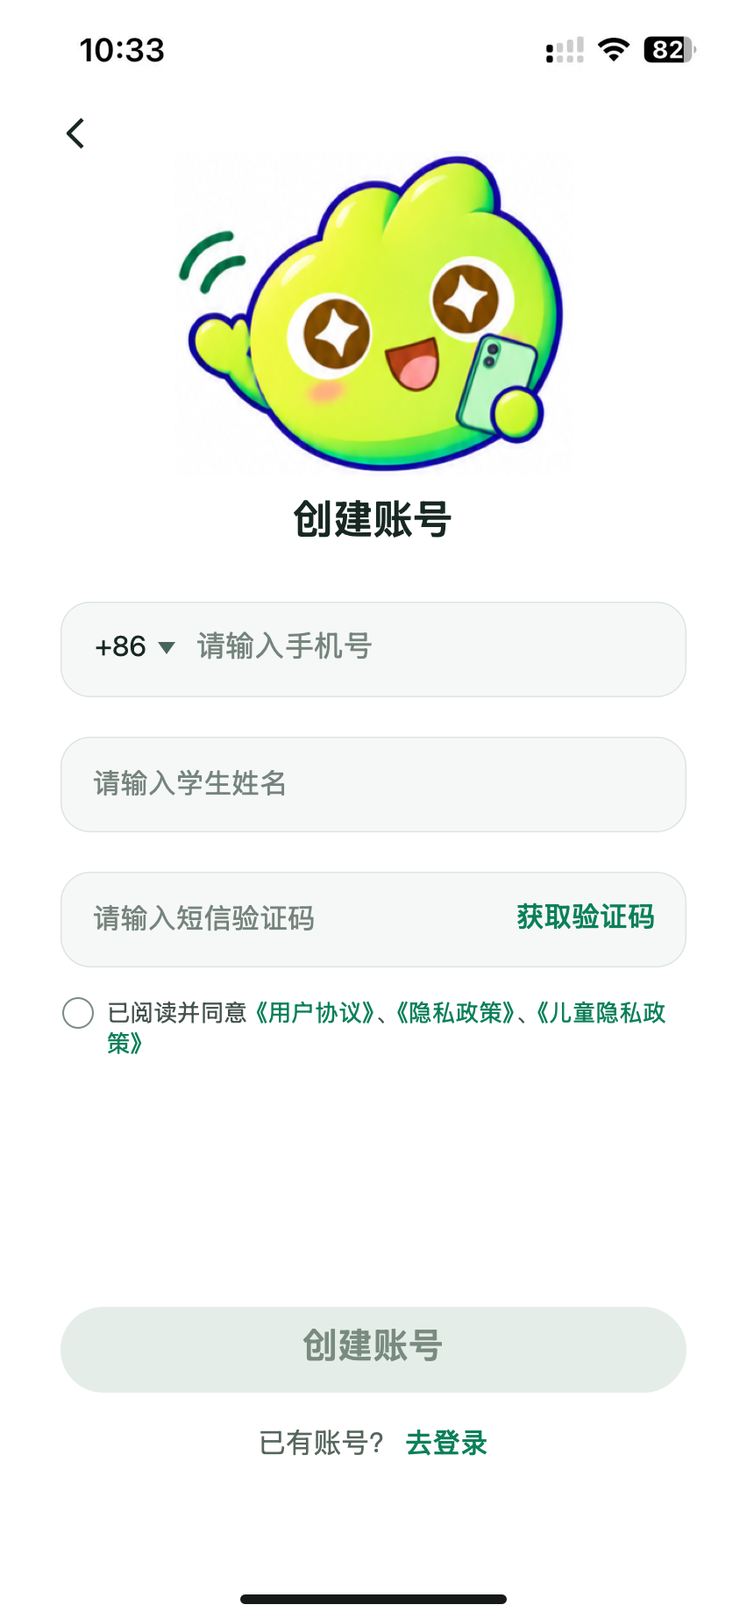
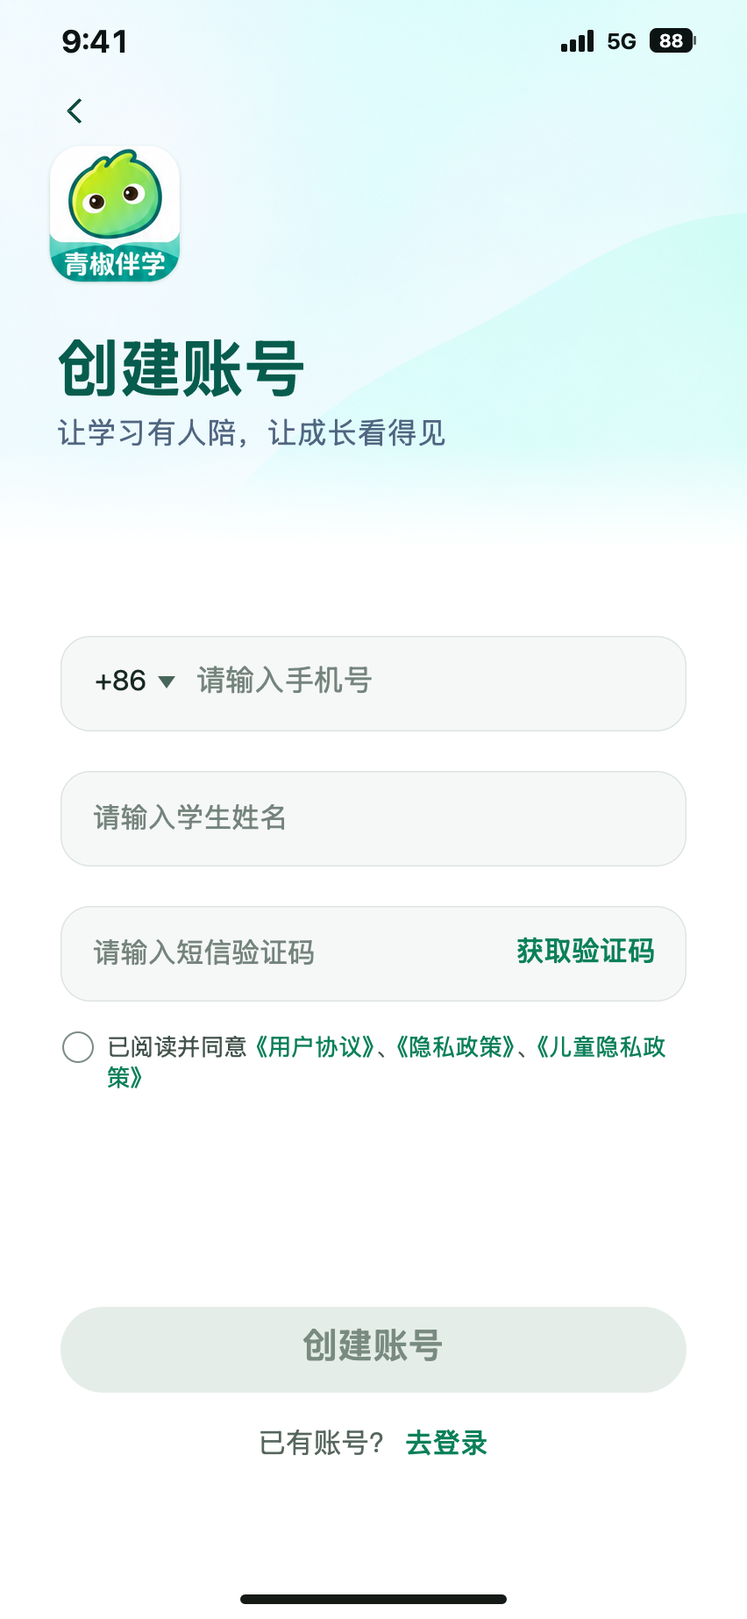
Publish approved account screens and centered dialogs

diff --git a/index.html b/index.html
@@ -15,7 +15,7 @@
 <main class="shell" id="shell" hidden><aside class="rail"><input id="search" aria-label="搜索页面" placeholder="搜索页面或状态"><nav id="nav" aria-label="设计页面目录"></nav></aside><section class="workspace"><div class="work-head"><div><h1 id="page-title"></h1><p id="page-meta"></p></div><div class="step-controls"><button id="read-interaction" class="detail-jump">交互说明</button><button id="previous" aria-label="上一张">‹</button><button id="next" aria-label="下一张">›</button></div></div><div class="stage" id="stage"><div class="screen" id="screen"><img id="screen-image" alt=""><div id="hotspots"></div><div id="learning-fields"></div></div></div></section><aside class="detail" id="interaction-detail"><h2 id="detail-title"></h2><p id="feature"></p><h3>功能、状态与权限</h3><ul id="rules"></ul><h3>查看交互去向</h3><div id="actions" class="action-links"></div><div class="file-links"><a id="original" target="_blank" rel="noopener">查看原图 ↗</a><a id="download" download>下载 PNG</a></div><p class="hint">手机稿按原尺寸提供下载。短信、上传、播放、反馈等流程使用演示数据。</p><p class="status"></p></aside></main>
 <section class="overview" id="overview"><h1>UI 设计图</h1><div id="overview-groups"></div></section>
 <script id="review-data" type="application/json">{"screens":[{"id":"00","group":"首页","name":"首页 · 已排课","file":"00-首页-已排课.png"},{"id":"00-empty","group":"首页","name":"首页 · 未排课","parent":"00","file":"00-首页-未排课.png"},{"id":"01","group":"账号","name":"手机号登录","parent":null,"spec":"A clean welcoming phone-code login screen, no tabs or back arrow. Compact green pepper smiling brand logo above 青椒伴学. Warm heading 欢迎回来 and subtitle 让学习有人陪，让成长看得见. White form card contains labels 购课登记手机号 and 短信验证码, phone input placeholder 请输入购课登记手机号, code input 请输入验证码 and inline 获取验证码. Wide turquoise 登录并开始学习 button. Below an UNCHECKED consent checkbox with 我已阅读并同意 plus separate 用户协议 and 隐私政策 text links. Small supporting text 仅面向已购伴学服务、由老师建档的学生. No registration, no password login, no social logins, no fake SMS duration/countdown, no demonstration 123456 in product UI. Friendly illustration no more than 20% of screen.","file":"01-手机号登录.png"},{"id":"02","group":"账号","name":"选择学生","parent":null,"spec":"Subpage title 选择学生. Heading 今天，陪谁一起学习？ subtitle 同一账号下的学生，学习记录各自独立. Two large tappable white student rows: illustrated friendly pepper avatar, 林小禾 / 五年级 · 数学, right chevron; second slightly different friendly pepper expression, 林小满 / 七年级 · 数学, right chevron. Subtle current badge 当前学生 on 林小禾 for this switch-student variant, not an editable control. Bottom explanation 学生档案由老师建立，如有疑问请联系老师. No 新增学生, no editing grade, no destructive controls. No bottom tabs.","file":"02-选择学生.png"},{"id":"02A","group":"账号","name":"完善学习信息","parent":"02","file":"02A-完善学习信息-v2.png","spec":"沿用02的852×1846画布比例；按当前学生确认年级及教材版本。","artwork":"assets/learning-reference.png"},{"id":"03","group":"账号","name":"未关联学生","parent":null,"spec":"Subpage title 暂未关联学生. Spacious centered empty-state illustration: small friendly pepper holding an unlinked student card, modern teal/lime illustrative style, not sad or alarming. Title 当前手机号尚未关联学生. Body 请使用购课登记手机号登录，或通过已有服务渠道联系老师. A single primary 更换手机号 button. Below subtle helper 学生档案由老师建立. No 自动创建, no 注册, no invented teacher contact QR or unknown phone.","file":"03-未关联学生.png"},{"id":"04","group":"学习","name":"周历与待发布周报","parent":null,"spec":"Main STUDY tab screen. Page heading 学习, subtitle 看得见安排，也看得见每一次努力, small pepper mascot top right matching brand. First white calendar card: title 这周的学习安排, small 回到本周 link. Week header left/right chevrons, 11月2日—11月8日. Exactly one row of seven days 周一 2, 周二 3, 周三 4, 周四 5, 周五 6, 周六 7, 周日 8. 4 selected turquoise rounded capsule, small course dots under 2,4,6, no dots other dates. Supporting legend 有已发布安排 · 点击日期查看. Below section 本周学习周报, generous white empty-state card with small illustrated report/book icon, 本周周报尚未发布, 老师发布后，你可以在这里查看, secondary outlined 查看上周周报 button. No monthly calendar, no separate tabs for 周计划/学习周报, no create plan control. Bottom navigation visible with 学习 active.","file":"04-周历与待发布周报.png"},{"id":"05","group":"学习","name":"上周已发布周报","parent":"04","spec":"Keep precisely the same 学习 main screen layout as second reference, with 学习 tab selected. Calendar week changes to 10月26日—11月1日 and seven day numbers 26,27,28,29,30,31,1, course dots under26,28,30; 30 selected. Section 上周学习周报. Replace unpublished empty card with published report card, small report illustration on right, title 一周，一点进步, date10.26—11.01, metadata 3次安排 · 2份作业已提交, small 已发布 · 第1版 pill, turquoise 查看周报 button. Keep 回到本周 link and week chevrons.","file":"05-上周已发布周报.png"},{"id":"06","group":"学习","name":"日期课程弹层","parent":"04","spec":"Date-schedule BOTTOM SHEET overlay on the same 学习 calendar screen as second reference. Dim background softly but retain recognizable calendar and tab bar; overlay covers lower ~53%. Sheet white, rounded top corners, drag handle and close x. Title 11月4日的学习安排, subtitle 周三 · 已发布. One course white/mint card: 数学, 小数乘法的算理, 今天19:00—19:40. Small beautiful math video thumbnail 0.3 × 4 with play symbol, metadata 视频1个 · 原练习3题. Two clear actions: primary 进入学习, secondary 预览练习. Do not repeat 今天上课 badges, do not force video before practice. Sheet padded above home indicator, no tab bar on top of sheet.","file":"06-日期课程弹层.png"},{"id":"07","group":"学习","name":"当天无课程弹层","parent":"06","spec":"State variant of the date-schedule bottom sheet second reference. Background calendar retains current week but select 周四5. Compact white bottom sheet about 36% height with close button and handle. Heading 11月5日的学习安排. Small outlined mint calendar illustration. Message 当天暂无已发布课程. Supporting text 可以切换日期，查看其他学习安排. Neutral 知道了 button that closes sheet. No course cards, no 创建计划 or guessed future plans, no fake data.","file":"07-当天无课程弹层.png"},{"id":"08","group":"课时","name":"课时详情","parent":null,"spec":"Subpage header 学习内容. Top date 11月4日 周三 · 19:00—19:40, heading 小数乘法的算理. Supporting 按自己的节奏开始，不需要依次完成. FOUR compact separate white action cards stacked with balanced spacing, not a timeline requiring order. Each has colorful icon left, text middle and control right:\n看视频 / 已观看35% / 继续观看.\n做练习 / 原练习 · 3题 · 可下载打印 / 预览练习.\n交作业 / 纸笔完成后，拍照整份上传 / 上传作业.\n老师反馈 / 老师发布后可以查看 / 查看状态 (secondary).\nAt bottom a quiet tip 视频、练习与作业可自由进入. No completed/掌握 claims. No empty 加练 entry before teacher publishes, no tabs. All four action cards must fit without compressed glyphs.","file":"08-课时详情.png"},{"id":"09","group":"课时","name":"未来课时未开放","parent":"08","spec":"Exact layout variant of lesson detail reference. Date11月6日 周五 · 19:00—19:40, same course 小数乘法的算理. Add quiet visible mint notice 11月6日00:00开放视频与作业提交 and small 北京时间. 看视频 card locked with 未到学习日 and gray disabled 待开放; 做练习 card remains active 预览练习 with3题 and PDF info; 交作业 locked 待开放; 老师反馈 secondary 查看状态 not a fake published result. Supporting text 现在可以预览练习. No countdown or unlock time19:00; schedule time is not the lock threshold.","file":"09-未来课时未开放.png"},{"id":"10","group":"视频","name":"视频学习 · 多课程","parent":null,"spec":"390×844布局基准，852×1846设计稿；一排三节课程，播放器内倍速，关键节点真人形象AI老师讲解示意；下方总结卡片留足间距，无播放位置提示行。","file":"10-视频学习-v2.png","artwork":"assets/video-reference.png"},{"id":"11","group":"视频","name":"网络失败","parent":"10","spec":"Same 视频学习 layout as reference. Within 16:9 player replace lesson image with calm very pale mint error surface, small tasteful disconnected-network illustration, heading 网络连接失败, helper 请检查网络后重试 and primary 重试播放 button. Keep below course 小数乘法的算理 and remembered-position helper. Bottom 前往练习 remains accessible. No cartoon alarm, no entire-screen huge warning. Preserve page geometry.","file":"11-网络失败.png"},{"id":"12","group":"视频","name":"无观看权限","parent":"10","spec":"Same 视频学习 page geometry. In player state surface use small mint shield/lock illustration, heading 暂无该视频观看权限, helper 请联系老师了解详情. No retry-play button, no purchase or renew CTA. Course title and 前往练习 remain below. Secondary 联系老师 text control may open existing shared contact sheet. Distinguish this state clearly from network failure.","file":"12-无观看权限.png"},{"id":"13","group":"视频","name":"资源不可用","parent":"10","spec":"Same 视频学习 page geometry. In player state area show small mint file/video unavailable illustration, heading 视频资源暂不可用, helper 请稍后再试，或联系老师了解详情. No claim permission expired, no invented reason, no purchase or renewal. Keep course heading and 前往练习 below.","file":"13-资源不可用.png"},{"id":"14","group":"视频","name":"观看有效期届满","parent":"10","spec":"Same 视频学习 page geometry. Player state shows small calendar-lock illustration, heading 视频观看有效期已届满, helper 请联系老师了解详情. Secondary 联系老师 button. Retain 小数乘法的算理 and 前往练习 below. Do not show guessed validity length or automatic renewal. Do not call this 服务到期: video authorization is independent of service.","file":"14-观看有效期届满.png"},{"id":"15","group":"练习作业","name":"原练习预览","parent":null,"spec":"Subpage 练习预览. Label 原练习 · 纸笔作答, right 共3题, heading 小数乘法的算理. White paper-like content with three clear numbered questions and generous ruled handwriting space:\n1. 计算：0.3 × 4 = ______\n2. 一盒彩笔2.5元，买3盒一共多少钱？\n3. 小禾每天步行1.2千米，5天一共步行多少千米？\nThese are static printable questions, NOT input fields, no answer buttons or correct answers.\nBottom fixed action area with outlined 下载原练习PDF and primary 完成了，上传作业. Small helper 练习PDF不含答案，反馈发布后可查看. Ensure handwriting spaces and questions visible; numbered questions printed on a single paper sheet. No bottom tabs.","file":"15-原练习预览.png"},{"id":"16","group":"练习作业","name":"老师加练预览","parent":"15","spec":"Same printable exercise page layout but nav title 巩固加练. Tag 老师发布 · 一轮加练. Title 小数乘法巩固练习, 共3题. Paper questions: 1.计算：0.4 × 3 = ______; 2.每盒彩笔2.6元，4盒共多少元？; 3.每天步行1.5千米，4天共多少千米？ Handwriting areas, no answers and no online inputs. Bottom secondary 下载加练PDF and primary 完成了，上传加练. Small text 老师发布后即可完成，不另扣课时. No automatic second round, no mastery meter.","file":"16-老师加练预览.png"},{"id":"17","group":"练习作业","name":"多图作业待提交","parent":null,"spec":"Subpage 原练习作业. Course 小数乘法的算理, subtitle11月4日 周三 · 原练习. Gentle helper 请拍清整页，保留题目和答案. White upload area: two realistic photographed elementary math homework paper thumbnails with tidy visible pencil arithmetic and page numbers 第1张, 第2张. These are photographs, not flat icons. Each thumbnail small x delete control at top-right. A third equal-size dashed mint + 添加图片 tile with 拍照或从相册选择 helper. Below note 支持多张图片，不支持PDF上传. Wide bottom primary 确认整份提交 · 2张. Helper 提交后可查看，老师退回后才能修改. Small neutral note 21:00后仍可提交. No demo-image button, no hard-coded file-size limit or max count.","file":"17-多图作业待提交.png"},{"id":"18","group":"练习作业","name":"整份提交确认","parent":"17","spec":"Exact upload page as reference behind a lightly dimmed scrim. White compact BOTTOM SHEET with handle, small check/document illustration. Heading 确认提交这份作业？ Body 共2张图片，请确认题目与答案完整清晰. Small helper 提交后可查看，老师退回后才能修改. Full turquoise 确认提交 and secondary 继续检查. Close x, safe bottom padding. Photo thumbnails behind stay selected. No automatic deletion, no irrevocable exaggerated warning.","file":"18-整份提交确认.png"},{"id":"19","group":"练习作业","name":"上传失败保留图片","parent":"17","spec":"Exact editable upload page geometry as reference, keep BOTH homework photo thumbnails selected with delete controls and add tile. Add in-context gentle coral error row 上传失败，已保留所选图片 and secondary 请检查网络后重试 near submission area. Primary button 重试整份提交 · 2张. No reset to empty, no success badge, no clearing thumbnails. Maintain original course/date and readable helper. A soft red error icon only, not a full red page.","file":"19-上传失败保留图片.png"},{"id":"20","group":"练习作业","name":"提交成功只读","parent":"17","spec":"Same 原练习作业 page, course/date. Replace upload zone with submitted white card. Small mint success illustration, heading 作业已提交, subtitle 等待老师反馈. Show exactly two uploaded homework photo thumbnails labelled 第1张 and 第2张 in read-only mode: NO delete x, NO +tile, NO replace/upload action. Supporting 提交后不可自行覆盖，老师退回后可重新上传. Secondary 查看反馈状态 button. Small success toast 已提交，等待老师反馈 at lower area, not over controls. No invented response deadline.","file":"20-提交成功只读.png"},{"id":"21","group":"练习作业","name":"老师退回补交","parent":"17","spec":"Editable upload state nav 原练习作业, course 小数乘法的算理, date11月2日 周一 · 原练习. Prominent but soft amber notice: 老师已退回，请补充上传, explanation 第3题照片不完整，请补充包含题目和答案的整页照片. Preserve two existing photo thumbnails, each has delete x and 第1张/第2张 labels, plus +添加图片 tile. One outlined amber marker on second thumbnail 待补充. Bottom primary 确认补交 · 2张. Helper 21:00后仍可提交. No teacher-side buttons, no losing original images, no close-service notice in this active-service state.","file":"21-老师退回补交.png"},{"id":"22","group":"练习作业","name":"作业图片大图预览","parent":"17","spec":"Full-screen IMAGE VIEWER, not upload editor. Deep charcoal backdrop, top statusbar light. Top-left back chevron, centered 作业图片, top-right 1 / 2. Large legible realistic photograph of elementary math homework sheet centered with correct paper proportions, handwritten pencil calculations for 0.3×4=1.2, 2.5×3=7.5元, 1.2×5=6千米, with appropriate question text. Entire sheet visible without stretching, subtle margin. Bottom understated 左右滑动查看图片 and small home indicator. No delete button, no sharing to external platforms, no extra tab bar. This viewer may be dark because photo viewing requires focus; keep brand control accent turquoise.","file":"22-作业图片大图预览.png"},{"id":"23","group":"反馈周报","name":"反馈待发布","parent":null,"spec":"Subpage 老师反馈. Course 小数乘法的算理, date11月4日 周三. Main centered white state card with friendly small illustrated letter/report and tiny pepper, heading 已提交，等待老师反馈. Supporting 老师正式发布后，你可以看到逐题结果与学习建议. Secondary 查看已提交作业. Keep sufficient airy spacing. No provisional AI results, no answers, no visible draft version, no countdown or promised release time. A discreet bottom text 每一次认真，都值得被看见.","file":"23-反馈待发布.png"},{"id":"24","group":"反馈周报","name":"老师反馈","parent":null,"spec":"蓝色为今日知识点，红色为练习掌握情况，绿色为后续加强方向；错题解析支持批注详情底部抽屉和不同批注原图。","file":"24-老师反馈-v2.png","artwork":"assets/feedback-reference.png"},{"id":"24A","group":"反馈周报","name":"练习批改详情","parent":"24","file":"24A-批注详情-v2.png","artwork":"assets/feedback-reference.png"},{"id":"25","group":"反馈周报","name":"学习周报概览","parent":null,"spec":"Subpage 学习周报. Mint introductory area small report illustration; date10月26日—11月1日; title 小步向前，每一步都算数; subtitle 林小禾 · 数学周报 · 已发布第1版. Main white stats card 这一周的学习记录 with exactly 3 安排课程, 2 提交作业, 1 待提交. Next card 练习记录 with 3 rows: 原练习正确率 / 4/6 · 66.7%; 错题加练 / 1/3 · 33.3%; 全对巩固 / 暂无数据. Small informational note 原练习未交与待复核单列；加练待复核计入分母，不等同答错. Follow teacher-suggestion card visible near bottom 林老师想对你说, short 继续练习应用题，记得写清列式与单位. Fixed bottom 下载已发布周报PDF button with reserve space. No share link, no mastery, no study-time predictions, no red pie chart. Page can scroll, keep readable type.","file":"25-学习周报概览.png"},{"id":"26","group":"反馈周报","name":"学习周报明细续屏","parent":"25","spec":"A scrolled continuation of SAME 学习周报 detail, not a new module. Keep pinned back header 学习周报, small 已发布第1版. At top teacher card 林老师想对你说 with photo and advice 你认真完成了两次练习。下周继续练习应用题，记得写清列式与单位；未提交的作业也可以补上. Next card 课程与视频安排 with three entries:\n10月26日 小数乘整数 / 安排已结束;\n10月28日 小数乘小数 / 安排已结束;\n10月30日 小数乘法的应用 / 安排已结束.\nEach small tasteful video thumbnail, no fabricated watched status.\nNext explanation card 统计说明: 原练习：2份已完整复核，1份未交单列. 加练：1题正确、1题错误、1题待复核. 安排结束不代表学习完成. Distinguish 待复核 from 错误. Bottom same fixed 下载已发布周报PDF button. Do not duplicate top hero or nav tabs. Readable breathing room.","file":"26-学习周报明细续屏.png"},{"id":"27","group":"我的","name":"我的 · 反馈中心入口","parent":null,"spec":"原林老师企业微信卡片替换为反馈中心入口；点击跳转37反馈中心，不展开联系老师弹层。","file":"27-我的-v2.png","artwork":"assets/my-reference.png"},{"id":"37","group":"我的","name":"反馈中心","parent":"27","file":"37-反馈中心-v2.png","artwork":"assets/center-reference.png"},{"id":"29","group":"我的","name":"退出登录确认","parent":"27","spec":"Same 我的 page softly dimmed behind a centered compact white rounded confirmation dialog. Heading 退出当前账号？ Body 学习记录会保留，下次登录后可继续查看. Two equal horizontally aligned buttons 取消 neutral and 确认退出 turquoise. No danger-red destructive delete-account action. Background bottom tab remains visible dimmed. No invented checkbox or account erasure.","file":"29-退出登录-v2.png","artwork":"assets/my-reference.png"},{"id":"30","group":"练习作业","name":"服务结束历史作业只读","parent":"20","spec":"Same read-only submitted 原练习作业 layout as reference. Course 小数乘法的算理 date11月2日 周一 · 原练习. At top soft amber note 服务已结束，历史作业仍可查看，不支持补交. Two read-only homework thumbnails with no delete/add controls. Label 历史作业 · 已提交. Bottom neutral contact button 联系老师. No 上传/补交 enabled button, no clearing history. A small helpful text 视频观看权限独立，以资源实际状态为准. This is service ended, NOT video expired.","file":"30-服务结束历史作业只读.png"},{"id":"31","group":"状态规范","name":"服务状态组件规范","parent":"27","spec":"EXCEPTION to single phone screenshot: create ONE polished portrait 390:844 COMPONENT STATE SHEET, same visual system and readable compact Chinese, no phone statusbar or bottom tabs. Title 伴学服务 · 状态规范, subtitle 四种状态的统一表达. Four vertically stacked white compact component cards:\n已暂停: 30总课时 /6已消 /24剩余; 暂停期间不新增安排，历史作业仍可补交.\n课时已耗尽 · 有效期内:30总课时 /30已消 /0剩余; 不新增安排，历史作业仍可补交.\n已到期:30总课时 /6已消 /24剩余; 历史记录可查看，作业不可补交.\n已结束:30总课时 /6已消 /24剩余; 历史记录可查看，作业不可补交.\nEach status combines label and gentle semantic icon, never color only. Footer 视频权限独立，不随服务状态自动取消. Keep common student service dates2026.10.20—2027.01.20 as fixture in small line once, no arbitrary reason for paused/ended and no renewal CTA. This is a labeled design handoff sheet showing reusable components, not all these states simultaneously in actual product.","file":"31-服务状态组件规范.png"},{"id":"32","group":"状态规范","name":"表单与操作反馈规范","parent":"01","spec":"EXCEPTION: ONE portrait 390:844 UI COMPONENT STATE SHEET, not actual app page. Title 操作反馈 · 状态规范. Clean readable white/mint examples of these six independent components with headings:\n1 手机号输入错误: phone input shows1380000800 in soft coral border; helper 请输入正确的11位手机号.\n2 验证码错误: code input ******; helper 验证码错误或已失效，请重试.\n3 未同意协议: checkbox unchecked; helper 请先阅读并同意用户协议与隐私政策.\n4 上传中: turquoise disabled button spinner 正在提交，请稍候; note 保留图片，避免重复提交.\n5 复制结果: two small separate toast examples 已复制企业微信号 and 复制未成功，请长按微信号复制.\n6 图片类型错误: neutral inline toast 仅支持图片，不支持PDF.\nNo duration/countdown values, no invented upload maximum, no fake submission success claim. Use realistic input/button components matching approved visual style, tidy spacing and clearly separated examples. No bottom tabs or phone statusbar, these are implementation reference components. Include 逐题状态 reusable badges 正确/错误/未作答/待复核 with icons.","file":"32-表单与操作反馈规范.png"},{"id":"33","group":"账号","name":"协议阅读模板","parent":null,"spec":"Subpage title 用户协议. Slim subtitle 青椒伴学. Clean white reading surface within mint canvas. Show honest placeholder reading template, not fabricated legal contract: small gray label 协议正文待业务与法务提供, title 用户协议, one short paragraph 这里将展示经确认的正式协议正文。当前页面仅用于展示阅读页样式与返回路径. Add modest section example 适用范围 / 正文确认后展示 and small label 隐私政策共用本阅读模板. Neutral back arrow in header and bottom 返回上一页 button. No fake consent to nonexistent legal terms, no registration/payment or legal guarantees. Important: this is a visually finished reading-page TEMPLATE with explicitly pending text, not a claim that legal document is complete.","file":"33-协议阅读模板.png"},{"id":"34","group":"练习作业","name":"未来课程练习可预览提交未开放","parent":"15","file":"34-未来课程练习可预览提交未开放.png","spec":"Future-course variant of the exact original exercise preview reference. Keep nav练习预览, course小数乘法的算理, all three original questions and handwriting space, readable type, card and download button. Small quiet notice above questions 11月6日00:00开放作业提交 · 北京时间. Bottom 下载原练习PDF remains ACTIVE outlined turquoise. Right submission button GRAY and DISABLED, text 学习日当天开放提交. No arrow or active turquoise upload control. Clearly label 原练习 · 纸笔作答. Future exercise can be previewed and downloaded, but original homework cannot yet be submitted. No countdown, no tabs. One portrait mobile screen390:844."},{"id":"35","group":"练习作业","name":"首次上传空态","parent":"17","file":"35-首次上传空态.png","spec":"Original homework initial upload EMPTY state of the exact reference17. Keep nav原练习作业, course小数乘法的算理, date11月4日 周三 · 原练习, gentle helper请拍清整页，保留题目和答案. Remove ALL photo thumbnails, deletion controls and page badges. Replace with clean white upload card with a small tasteful camera and paper illustration, clear dashed mint + 添加作业图片 target, helper 拍照或从相册选择 · 支持多图. Note 仅支持图片，不支持PDF上传. Bottom GRAY DISABLED primary button 确认整份提交 · 0张, no active turquoise submit. Keep helper 提交后可查看，老师退回后才能修改 and small21:00后仍可提交. Comfortable whitespace, no giant decorations, no demo-image button, no invented file count or size limits. One portrait mobile screen390:844."},{"id":"36","group":"练习作业","name":"加练作业独立上传","parent":"17","file":"36-加练作业独立上传.png","spec":"Independent EXTRA PRACTICE homework upload variant of reference17. Nav title 加练作业, course title 小数乘法巩固练习, subtitle10月30日 周五 · 老师发布加练. Small tag 加练独立提交. Keep upload card geometry, friendly helper请拍清整页，保留题目和答案. Exactly TWO realistic photographed math extra-practice homework pages, each has delete x and第1张/第2张. Third +添加图片 target 拍照或从相册选择. No original homework images; photos show handwriting on decimal multiplication worksheets. Primary 确认加练提交 · 2张. Footer 加练不另扣课时，提交记录与原练习独立. Small supporting sentence 老师发布后即可完成. No future-course lock, no second-round auto assignment. No bottom tabs. One portrait mobile screen390:844."}],"interactions":{"10":{"feature":"一张视频学习页：课程切换、播放器内控制、关键节点AI老师讲解示意及对应内容总结。","rules":["顶部单排切换小数乘法的算理、小数乘整数、小数乘法的应用。标题、例题、总结及播放状态随课程同步更新。","每个学生、每节课程分别保留当前浏览会话的进度和倍速；切换课程不混用。","倍速只出现在播放器内，支持0.75×、1.0×、1.25×、1.5×、2.0×；删除播放器外的播放位置提示行。","关键知识节点在视频左下角展示真人形象AI老师，避开题目及控制栏；拖动进度可预览出现和收起。","课程选择、播放示意、进度、倍速可操作；未连接真实视频、人物口播和AI分析服务。老师是静态形象示意，时间点为演示样例。","三节视频共用本课时的原练习入口；课程条、播放器、总结之间留足间距，仅保留一张视频页面。"],"actions":[["去练习","15"],["返回课时","08"],["网络失败状态","11"]]},"11":{"feature":"网络失败，可重试播放。","rules":["保留上次播放位置；重试成功回正常态。","加载过程中防重复重试，失败不清空学习上下文。"],"actions":[["重试播放成功","10"],["前往练习","15"],["返回课时","08"]]},"12":{"feature":"当前视频未获观看权限。","rules":["隐藏播放控件与倍速操作，不出现购买或续费按钮。","保留课时、练习与历史记录，提供联系老师路径。"],"actions":[["反馈中心（共用弹层）","37"],["前往练习","15"],["返回课时","08"]]},"13":{"feature":"视频资源暂不可用，与网络故障、权限原因分开。","rules":["不猜测资源失效原因，不显示成功或已过期的误导文案。","数据恢复后仍从已保存位置播放。不可操作的播放器控制应隐藏或禁用。"],"actions":[["资源恢复后","10"],["前往练习","15"],["返回课时","08"]]},"14":{"feature":"独立视频观看有效期届满。","rules":["禁止播放并移除播放控件。与伴学服务状态独立判断。","不编造小学／初中观看期限、起算方式或续费规则。"],"actions":[["反馈中心（共用弹层）","37"],["前往练习","15"],["返回课时","08"]]},"15":{"feature":"原练习纸笔预览与PDF下载。","rules":["保留题号、题序及手写区，不做在线答题。","下载不含标准答案。只有正式反馈发布后才展示答案。","PDF下载保持阅读位置；失败给出提示与重试，不清空页面。"],"actions":[["完成了，上传作业","35"],["查看未来禁用态","34"],["返回课时","08"]]},"16":{"feature":"老师正式发布的一轮独立加练。","rules":["原练习与加练PDF、图片与提交状态独立。","老师发布后即可进入，不等待下一个学习日，不另扣课时，不自动追加第二轮。"],"actions":[["完成了，上传加练","36"],["返回反馈","24"]]},"17":{"feature":"原作业已选择两张图片的可编辑状态。","rules":["仅图片、多图整份提交；提交前可预览、增补和删除。图片移除后数量实时变化。","删除至0张时禁用提交。系统相册选择取消，保留原列表。上传前保留原文件比例与拍摄方向。","不规定未经确认的文件大小或数量上限。21:00只是处理分界，不禁止提交。"],"actions":[["确认整份提交","18"],["点击图片预览","22"],["删除全部后","35"],["模拟提交失败","19"],["返回练习","15"]]},"18":{"feature":"整份提交前确认弹层。","rules":["图片数量来自当前列表，不硬编码。继续检查与关闭不丢失图片。","点击确认进入上传中，锁定重复提交；成功只读，失败保留全部待传图片。","原练习与加练共用确认组件，背景及任务身份必须保持来源上下文。"],"actions":[["确认提交成功","20"],["确认提交失败","19"],["继续检查","17"],["上传中组件","32"]]},"19":{"feature":"上传失败，已选两张图片仍保留。","rules":["保留顺序与数量，错误提示靠近提交区。","重试仍需提交当前整份图片；不能先清空图片或误显示成功。"],"actions":[["重试并确认","18"],["点击图片","22"],["返回编辑","17"]]},"20":{"feature":"提交成功，只读查看。","rules":["成功后不可自行覆盖，不显示删除或追加入口；老师退回后才恢复编辑。","点击图片进入只读预览。成功提示短暂出现，不能遮挡内容，时长按系统组件规范。"],"actions":[["查看反馈状态","23"],["点击图片","22"],["老师退回后","21"],["正式发布反馈后","24"],["返回课时","08"]]},"21":{"feature":"老师退回后的补充上传状态。","rules":["显式展示退回原因和需补充位置，保留原有图片。","允许整份重新确认提交；补交不生成新的学习课时。","未收到教师的结构化图片定位时，只显示原因，不在生产中猜测哪张图错误。"],"actions":[["确认补交","18"],["点击图片","22"],["返回课时","08"]]},"22":{"feature":"作业图片全屏只读查看。","rules":["保持原图比例，支持左右切换、页码和缩放查看；关闭回来源页。","预览不删除图片，不改变作业状态；支持屏幕阅读器的图片次序说明。","本稿纸面内容仅为AI生成示意，正式预览应显示实际上传原图。"],"actions":[["返回待提交作业","17"],["查看已提交只读页","20"]]},"23":{"feature":"已提交但反馈尚未正式发布。","rules":["不展示AI初步批改、不展示教师草稿、不暴露答案。","未交原练习时同组件文案改为老师反馈尚未发布；服务结束时提示未完成服务不再继续。","老师发布后刷新到正式版，不许学生触发发布。"],"actions":[["查看已提交作业","20"],["老师正式发布后","24"],["返回课时","08"]]},"24":{"feature":"老师的当日反馈、错题解析和多图批改详情。","rules":["蓝色文字展示今日所学知识点，红色文字展示练习掌握情况，绿色文字说明后续重点加强方向。","错题解析分学生作答、参考答案、解题思路；反馈仅展示正式发布版本。","查看批注详情打开当前页底部抽屉：蒙层、圆角、拖动条、关闭按钮，缩略图按两列四行展示。","8张内容不同的批注示例可点击放大，支持上一张、下一张、放大、缩小、还原、拖动及双指缩放；示例图片不是真实学生作业。","关闭原图回缩略图，关闭抽屉返回当前反馈；教师修改草稿不覆盖旧正式版。"],"actions":[["查看批注抽屉","24A"],["进入老师安排的加练","16"],["返回课时","08"]]},"25":{"feature":"已发布学习周报的概览上屏。","rules":["按学生和周展示正式版，下载同版本PDF；草稿不显示且不能下载。","原练习未交／待复核单列；加练待复核计分母但不是答错；组合题按小题统计。","图示3/2/1与4/6、1/3均为原型样例，不作学习掌握或时长推算。"],"actions":[["向下查看周报明细","26"],["返回所选周","05"]]},"26":{"feature":"同一周报的下半部分，非独立业务页面。","rules":["承接老师建议、课程视频安排与统计说明。安排结束不代表学习完成。","补交只更新后台草稿，正式重新发布后学生可见版及PDF才变化；不得直接覆盖旧版。","下载当前学生和发布版本PDF，不提供分享链接。"],"actions":[["向上回概览","25"],["返回所选周","05"]]},"27":{"feature":"当前学生、伴学服务和反馈中心入口。","rules":["学生档案、课包总额/已消/剩余/有效期只读。","手机号换绑交由老师核实后后台处理，点击给说明而非开放自助编辑。","顶部切换学生，所有数据随学生切换；退出账号保留学习记录。","原林老师企业微信卡片改为反馈中心；点击进入独立反馈页，不弹出联系老师弹层。"],"actions":[["切换学生","02"],["反馈中心","37"],["用户协议／隐私政策模板","33"],["退出登录","29"],["其他服务状态","31"],["首页","00"],["学习","04"]]},"29":{"feature":"退出登录二次确认。","rules":["取消回当前页，确认清理当前登录状态并返回登录页。","保留服务器学习记录；不得误做账号注销、删除学生或清空学习历史。","背景使用更新后的我的页面，原林老师企业微信卡片已删除，保留反馈中心入口。"],"actions":[["取消","27"],["确认退出","01"]]},"30":{"feature":"服务到期或手动结束后的历史作业只读模板。","rules":["保留历史记录和图片，禁止新增/补交；没有记录时展示暂无提交记录。","暂停与课时耗尽但有效期内仍可补交，不应复用此只读权限。","视频另按自身授权与观看有效期判断。"],"actions":[["查看图片","22"],["反馈中心","37"],["服务状态规范","31"],["返回我的","27"]]},"31":{"feature":"设计交付组件页：四种服务状态，非学生端同时出现的页面。","rules":["暂停、课尽有效期内：历史作业可补交；到期、手动结束：只读。","服务中使用27，异常状态替换同一服务卡，不增加用户可操作的状态选择器。","服务期限和课时为样例，结束原因来自后台；视频授权独立。"],"actions":[["我的服务中","27"],["服务结束历史只读","30"]]},"32":{"feature":"设计交付组件页：表单、提交过程、复制、类型错误及逐题状态。","rules":["校验错误定位对应输入，并保留用户输入。上传过程防重复提交。","结果标签含图标和文字；未作答与待复核不等于错误。","不以生成图中文字作为最终文案源，实施采用交互说明内的准确文案与真实文本组件。"],"actions":[["登录页","01"],["上传空态","35"],["上传失败","19"],["反馈中心","37"],["正式反馈","24"]]},"33":{"feature":"用户协议与隐私政策共用的阅读页样式模板。","rules":["正文须业务/法务提供，此页不包含真实法律条款。","从登录或我的进入，返回相同来源，不自动勾选同意。","正式长正文采用可滚动正文与固定返回导航，保持正常字号。"],"actions":[["返回登录","01"],["返回我的","27"]]},"34":{"feature":"未来课程的原练习可预览可下载，提交未开放。","rules":["提交控件禁用，并展示学习日北京时间00:00开放说明。","下载PDF仍可操作，未开放不能从其他路径绕过提交限制。"],"actions":[["返回未来课时","09"]]},"35":{"feature":"首次上传未选择图片，提交禁用。","rules":["拍照或相册选择完成后进入可编辑列表；取消选择保持空态。","禁止0张提交，不展示示例图片快捷按钮，不接收PDF。"],"actions":[["选择两张图片后","17"],["返回练习","15"]]},"36":{"feature":"老师发布后独立加练的多图上传。","rules":["独立任务ID与图片、状态，不覆盖原练习。发布后可做，不等待下一学习日。","复用17—22的编辑/确认/失败/成功/退回/预览组件，但标题、任务与图片保持加练上下文。","加练不另扣课时、不自动追加下一轮；服务结束仍不可补交。"],"actions":[["预览共用确认组件","18"],["预览共用失败组件","19"],["返回加练","16"]]},"00":{"feature":"已排课首页：学习足迹、今日课程总览和老师发布的加练。","rules":["学习计划展示今日待学3门课程、预计学习120分钟；查看课程进入学习安排。","专属伴学展示已添加的老师和待完成加练；学习足迹展示已有知识点记录。","课程数量、时长及知识点数字为本页设计示例；实际由当前学生数据提供。","学习足迹知识图谱详情与活动落地页未在本期原型定义。"],"actions":[["查看课程／全部计划","04"],["老师加练／全部任务","16"],["查看未排课首页","00-empty"],["学习","04"],["我的","27"]]},"01":{"feature":"购课登记手机号与短信验证码登录。","rules":["必须验证11位手机号并勾选协议。验证码发送与错误提示不清空手机号。","单学生进入完善学习信息，多学生先选择学生再完善学习信息，未关联进入说明页。","发送间隔、验证码有效时长与设备策略待技术确认。"],"actions":[["多学生登录后","02"],["单学生登录后","02A"],["未关联学生","03"],["表单错误规范","32"],["阅读协议模板","33"]]},"02":{"feature":"同一账号选择当前学生，或从“我的”切换学生。","rules":["学习记录、作业、反馈、周报及服务数据按学生隔离。","登录首次选择时不显示“当前学生”；切换学生场景显示当前标记。","切换后清理上一学生的临时图片与播放器上下文，不能混用；不开放自助建档。","登录流程选择学生后进入完善学习信息，确认年级和教材版本后再进入首页。"],"actions":[["选择林小禾并完善信息","02A"],["选择林小满并完善信息","02A"],["返回我的","27"]]},"03":{"feature":"说明手机号未关联学生，不自动建档。","rules":["更换购课登记手机号登录，或通过已有服务渠道联系老师。","没有已知老师联系方式时，不生成虚构联系方式。"],"actions":[["更换手机号","01"]]},"04":{"feature":"学习主页面：周一至周日的单行周历，下方同周周报。","rules":["周历仅标注已发布课程；选中态与有课圆点独立。","周报未发布不展示草稿。上一周／下一周同步切换日期与周报；不使用月历或二级页签。"],"actions":[["上一周／查看上周周报","05"],["点击11月4日","06"],["点击11月5日","07"],["我的","27"],["首页","00"]]},"05":{"feature":"上周周历及已正式发布的周报入口。","rules":["只展示所选学生、所选周的正式发布版本。","回到本周恢复当前周及当前日期；边界周箭头按数据范围禁用。"],"actions":[["回到本周","04"],["查看周报","25"],["学习","04"],["我的","27"],["首页","00"]]},"06":{"feature":"有课日期的课程安排底部弹层。","rules":["课程名沿用视频名，不另造课时名称。","进入学习与预览练习可分别进入；关闭返回周历并保留日期。","弹层须阻断背景交互，关闭后焦点返回触发日期。"],"actions":[["进入学习","08"],["预览练习","15"],["关闭","04"]]},"07":{"feature":"无已发布课程日期的空态弹层。","rules":["选中日期无课程圆点，不显示创建计划入口。","关闭或知道了返回周历，日期选择不丢失。"],"actions":[["知道了／关闭","04"]]},"08":{"feature":"视频、原练习、作业、反馈的独立状态入口。","rules":["可以自由进入，不强制按步骤完成。观看进度不代表掌握，不触发扣课。","无加练时不显示空入口；老师正式发布加练后可追加第五个入口，复用16。","作业入口随未交／已交／退回切换到对应状态；返回恢复来源页与滚动位置。"],"actions":[["继续观看","10"],["预览练习","15"],["首次上传作业","35"],["查看反馈状态","23"],["查看未来课程状态","09"],["查看已发布反馈","24"],["返回学习","04"]]},"09":{"feature":"未来已发布课程详情。","rules":["按学习日北京时间00:00开放视频和原作业提交；19:00是安排时间，不是开放阈值。","练习预览与PDF下载保持可用。开放前按钮禁用且有原因；不做虚构倒计时。"],"actions":[["预览练习","34"],["返回学习","04"]]},"00-empty":{"feature":"未排课首页：学习足迹空态、暂无学习计划及老师未排课状态。","rules":["学习足迹展示开始学习提示和灰色图谱，不显示已有知识点数量。","学习计划提示暂无学习计划，并引导联系排课老师；不显示查看课程按钮。","专属伴学保留林老师信息，展示未排课；不展示待完成加练任务。","本稿只新增首页状态，未排课的计划列表、任务列表及知识图谱详情未另行定义。"],"actions":[["查看已排课首页","00"],["学习主页面样例","04"],["我的","27"]]},"02A":{"feature":"登录后按当前学生确认就读年级和教材版本，再开始学习。","rules":["单学生登录直接进入本页；多学生账号先选择学生。本页沿用02的视觉风格。","年级、教材版本均必选；已有信息可以回显。图稿示例为林小禾、五年级、人教版。","可操作预览支持选择年级和教材版本；信息仅在当前浏览会话按学生分别保存，未连接真实学生档案。","确认后按真实排课状态进入对应首页；审阅稿右侧提供已排课和未排课两种去向。","教材版本选项仅作原型示例，正式列表由实际支持的教材维护，不根据年级自动猜测。"],"actions":[["确认后 · 已排课首页","00"],["确认后 · 未排课首页","00-empty"],["返回选择学生","02"],["返回登录","01"]]},"24A":{"feature":"老师反馈内的批注详情底部抽屉，与参考图相同的两列四行结构。","rules":["查看批注详情打开当前页底部抽屉：蒙层、圆角、拖动条、关闭按钮，缩略图按两列四行展示。","8张内容不同的批注示例可点击放大，支持上一张、下一张、放大、缩小、还原、拖动及双指缩放；示例图片不是真实学生作业。","关闭原图回缩略图，关闭抽屉返回当前反馈；教师修改草稿不覆盖旧正式版。"],"actions":[["返回老师反馈","24"]]},"37":{"feature":"从我的进入的独立反馈中心，包含工作人员信息和反馈表单。","rules":["保留工作人员入口及反馈表单；使用紧凑联系人卡片、三选一反馈类型、问题描述和人工联系选项。","反馈类型为表扬、投诉、建议，单选；问题描述和是否需要人工联系均为必填。","联系专员的真实联系方式尚未接入；图稿不展示虚假二维码。描述上限500字，计数实时更新。","当前为UI原型，提交进行表单校验并提示反馈尚未发送；草稿在当前浏览会话按学生保留，未连接提交服务。","点击返回回到我的；不使用联系老师弹窗替代反馈中心。"],"actions":[["返回我的","27"]]}},"hotspots":{"10":[],"11":[["重试播放","10",33,32,34,5],["前往练习","15",14,75.5,72,7],["返回","08",3,5.5,8,4]],"12":[["反馈中心","37",32,35.2,37,4.6],["前往练习","15",14,75.5,72,7],["返回","08",3,5.5,8,4]],"13":[["前往练习","15",14,75.5,72,7],["返回","08",3,5.5,8,4]],"14":[["反馈中心","37",32,35.2,37,4.6],["前往练习","15",14,75.5,72,7],["返回","08",3,5.5,8,4]],"15":[["完成了，上传作业","35",51.5,87.8,45.1,4.4],["返回","08",3,5.5,8,4]],"16":[["完成了，上传加练","36",51.4,89.6,45.5,4.9],["返回","24",3,5.5,8,4]],"17":[["图片预览","22",8,28,63,18],["整份提交","18",4,84.2,92,6],["返回","15",3,5.5,8,4]],"18":[["确认提交","20",4,87,92,5.2],["继续检查","17",4,92.7,92,4.6],["返回","17",3,5.5,8,4]],"19":[["重试提交","18",4,86,92,5.5],["返回","15",3,5.5,8,4]],"20":[["图片预览","22",8,38.3,63,18.5],["查看反馈状态","23",6,82.8,88,5.4],["返回","08",3,5.5,8,4]],"21":[["确认补交","18",4,87.5,92,6],["返回","08",3,5.5,8,4]],"22":[["返回图片列表","17",3,5.5,8,4]],"23":[["查看已提交作业","20",23,60,54,6],["返回","08",3,5.5,8,4]],"24":[["进入加练","16",4.1,90.2,91.7,5.2],["返回","08",3,5.2,8,4]],"25":[["向下看明细","26",80,84,16,4],["返回","05",3,5.5,8,4]],"26":[["回概览","25",3,5.5,8,4],["返回","05",3,5.5,8,4]],"27":[["切换学生","02",71,21.5,24,4.5],["用户协议","33",5,66.3,90,4.7],["隐私政策","33",5,71,90,4.7],["退出登录","29",4,83,92,5.5],["首页","00",4,90.5,28,7.2],["学习","04",35,90.5,30,7.2],["我的","27",68,90.5,28,7.2]],"29":[],"30":[["查看图片","22",8,41,64,20],["反馈中心","37",4,88,92,6],["返回","27",3,5.5,8,4]],"33":[["返回登录","01",4,77,92,6],["返回","01",3,5.5,8,4]],"34":[["返回","09",3,5.5,8,4]],"35":[["添加作业图片","17",8,48,84,13],["返回","15",3,5.5,8,4]],"36":[["通用确认组件","18",4,84,92,6],["返回","16",3,5.5,8,4]],"00":[["查看课程","04",68.5,45.0,25.5,4.3],["全部计划","04",74,39.2,20,3.3],["老师加练","16",74.5,84.8,19,3.8],["全部任务","16",74,72.5,20,3.3],["首页","00",4,90.7,28,7.1],["学习","04",35,90.7,30,7.1],["我的","27",68,90.7,28,7.1]],"01":[["登录","02",7,60.8,86,6.2],["用户协议","33",49,73,17,3],["隐私政策","33",70,73,17,3]],"02":[["选择林小禾","02A",4,26.6,92,12],["选择林小满","02A",4,39.5,92,12]],"03":[["更换手机号","01",16,64,68,7]],"04":[["上一周","05",16,25,8,4],["11月4日","06",32,30,12,9],["11月5日","07",44,30,12,9],["查看上周周报","05",30,73,40,5],["首页","00",4,90.5,28,7.2],["学习","04",35,90.5,30,7.2],["我的","27",68,90.5,28,7.2]],"05":[["回到本周","04",72,20.6,22,3],["查看周报","25",8,68,33,5],["首页","00",4,90.5,28,7.2],["学习","04",35,90.5,30,7.2],["我的","27",68,90.5,28,7.2]],"06":[["关闭","04",89,52.5,8,4],["进入学习","08",4,91,46,5.5],["预览练习","15",52,91,44,5.5]],"07":[["关闭","04",89,52.5,8,4],["知道了","04",9,89.4,82,6]],"08":[["继续观看","10",68,29,28,6],["预览练习","15",68,42.2,28,6],["上传作业","35",68,54.5,28,6],["查看反馈状态","23",68,67.2,28,6],["返回","04",3,5.5,8,4]],"09":[["预览练习","34",68,47.8,28,6],["返回","04",3,5.5,8,4]],"00-empty":[["首页","00-empty",4,90.5,28,7.2],["学习","04",35,90.5,30,7.2],["我的","27",68,90.5,28,7.2]],"02A":[["确认并开始学习","00",4,71.3,92,7.2],["返回选择学生","02",3,6.6,8,4]],"24A":[],"37":[]}}</script>
-<script src="review-screens.js?v=2"></script>
+<script src="review-screens.js?v=3"></script>
 <script>
 const data=JSON.parse(document.getElementById('review-data').textContent);
 const previousHome=data.screens.find(screen=>screen.id==='00');
@@ -83,4 +83,4 @@ el('previous').onclick=()=>{const i=data.screens.findIndex(s=>s.id===current);go
 el('next').onclick=()=>{const i=data.screens.findIndex(s=>s.id===current);go(data.screens[(i+1)%data.screens.length].id)};
 window.addEventListener('popstate',()=>{go(location.hash.slice(1)||'00',false);toggleOverview(!location.hash)});buildNav();go(location.hash.slice(1)||'00',false);toggleOverview(!location.hash);
 window.review={data,go,current:()=>current,initial:location.hash.slice(1)||'00'};
-</script><script src="review-enhancements.js?v=20"></script><script src="review-current.js?v=2"></script></body></html>
+</script><script src="review-enhancements.js?v=20"></script><script src="review-current.js?v=3"></script></body></html>

diff --git a/review-screens.js b/review-screens.js
@@ -1131,7 +1131,7 @@ window.currentReviewScreens = [
         "获取验证码",
         "!sms",
         67.16,
-        50.62,
+        48.62,
         22.76,
         3.96
       ],
@@ -1139,7 +1139,7 @@ window.currentReviewScreens = [
         "勾选同意协议",
         "!consent",
         7.7,
-        57.0,
+        55.0,
         5.6,
         4.0
       ],
@@ -1147,7 +1147,7 @@ window.currentReviewScreens = [
         "用户协议",
         "!userPolicy",
         32,
-        56.3,
+        54.3,
         15.4,
         4.0
       ],
@@ -1155,7 +1155,7 @@ window.currentReviewScreens = [
         "隐私政策",
         "!privacy",
         50,
-        55.9,
+        53.9,
         16,
         3.8
       ],
@@ -1163,7 +1163,7 @@ window.currentReviewScreens = [
         "儿童隐私政策",
         "!childPrivacy",
         70,
-        55.9,
+        53.9,
         21,
         3.8
       ],
@@ -1178,14 +1178,15 @@ window.currentReviewScreens = [
       [
         "创建账号",
         "02-02",
-        12.17,
-        58.32,
-        55.25,
-        4.12
+        52.58,
+        87.22,
+        19.25,
+        3.95
       ]
     ],
     "form": "login",
-    "file": "screens/02-01.png"
+    "file": "screens/02-01.png",
+    "revision": 3
   },
   {
     "id": "02-02",
@@ -1199,10 +1200,18 @@ window.currentReviewScreens = [
     ],
     "controls": [
       [
+        "返回登录",
+        "02-01",
+        5.63,
+        4.88,
+        9.39,
+        4.01
+      ],
+      [
         "获取验证码",
         "!sms",
         66.73,
-        54.62,
+        56.73,
         23.21,
         4.22
       ],
@@ -1210,7 +1219,7 @@ window.currentReviewScreens = [
         "勾选同意协议",
         "!consent",
         7.7,
-        61.0,
+        63.11,
         5.6,
         4.0
       ],
@@ -1218,7 +1227,7 @@ window.currentReviewScreens = [
         "用户协议",
         "!userPolicy",
         32,
-        60.6,
+        62.71,
         15.4,
         4.0
       ],
@@ -1226,7 +1235,7 @@ window.currentReviewScreens = [
         "隐私政策",
         "!privacy",
         50,
-        60.6,
+        62.71,
         16,
         3.8
       ],
@@ -1234,7 +1243,7 @@ window.currentReviewScreens = [
         "儿童隐私政策",
         "!childPrivacy",
         70,
-        60.6,
+        62.71,
         21,
         3.8
       ],
@@ -1249,14 +1258,15 @@ window.currentReviewScreens = [
       [
         "去登录",
         "02-01",
-        32.58,
-        87.14,
-        34.83,
-        4.15
+        51.41,
+        87.22,
+        17.14,
+        3.95
       ]
     ],
     "form": "register",
-    "file": "screens/02-02.png"
+    "file": "screens/02-02.png",
+    "revision": 3
   },
   {
     "id": "02-03",
@@ -4108,31 +4118,25 @@ window.currentReviewScreens = [
     ],
     "controls": [
       [
-        "返回",
-        "!back",
-        1.5,
-        4.3,
-        11,
-        4.8
-      ],
-      [
         "继续检查",
-        "!back",
-        16.73,
-        90.03,
-        18.62,
-        4.18
+        "!returnToDraft",
+        13.03,
+        54.71,
+        35.21,
+        4.98
       ],
       [
         "确认提交",
         "06-10",
-        3.83,
-        69.86,
-        44.83,
-        4.91
+        51.76,
+        54.71,
+        35.21,
+        4.98
       ]
     ],
-    "file": "screens/06-09.png"
+    "file": "screens/06-09.png",
+    "revision": 3,
+    "dismissDialog": "!returnToDraft"
   },
   {
     "id": "06-10",
@@ -4224,31 +4228,25 @@ window.currentReviewScreens = [
     ],
     "controls": [
       [
-        "返回",
-        "!back",
-        1.5,
-        4.3,
-        11,
-        4.8
-      ],
-      [
         "确认取消",
         "06-25",
-        16.74,
-        89.08,
-        18.19,
-        4.15
+        13.03,
+        54.71,
+        35.21,
+        4.98
       ],
       [
         "继续上传",
-        "!back",
-        4.24,
-        27.34,
-        27.76,
-        4.16
+        "!returnToUpload",
+        51.76,
+        54.71,
+        35.21,
+        4.98
       ]
     ],
-    "file": "screens/06-12.png"
+    "file": "screens/06-12.png",
+    "revision": 3,
+    "dismissDialog": "!returnToUpload"
   },
   {
     "id": "06-13",
@@ -6694,22 +6692,23 @@ window.currentReviewScreens = [
       [
         "取消",
         "!returnProfile",
-        5.16,
-        91.39,
-        43.66,
-        4.01
+        13.03,
+        54.71,
+        35.21,
+        4.98
       ],
       [
         "确认退出",
         "02-01",
-        51.17,
-        91.39,
-        43.66,
-        4.01
+        51.76,
+        54.71,
+        35.21,
+        4.98
       ]
     ],
     "file": "screens/09-13.png",
-    "revision": 2
+    "revision": 3,
+    "dismissDialog": "!returnProfile"
   },
   {
     "id": "09-14",
@@ -6723,22 +6722,23 @@ window.currentReviewScreens = [
       [
         "继续留在这里",
         "!returnProfile",
-        5.16,
-        91.39,
-        43.66,
-        4.01
+        13.03,
+        54.71,
+        35.21,
+        4.98
       ],
       [
         "查看上传进度",
         "06-11",
-        51.17,
-        91.39,
-        43.66,
-        4.01
+        51.76,
+        54.71,
+        35.21,
+        4.98
       ]
     ],
     "file": "screens/09-14.png",
-    "revision": 2
+    "revision": 3,
+    "dismissDialog": "!returnProfile"
   },
   {
     "id": "10-01",

diff --git a/review-current.js b/review-current.js
@@ -11,6 +11,7 @@
   let codeSent = false;
   let toastTimer;
   let atlasState;
+  let dismissPreview;
   const id = () => window.review.current();
   const go = target => {
     const source = id();
@@ -171,15 +172,16 @@
   }
 
   function renderForm(register) {
+    const offset = (register ? 39 : -37) / 1846 * 100;
     form = {
-      phone: input("手机号", "请输入手机号", 24.5, register ? 38.0 : 42.15, 60, 11),
-      code: input("短信验证码", "请输入短信验证码", 11.7, register ? 55.2 : 50.8, 50, 6),
-      name: register ? input("学生姓名", "请输入学生姓名", 11.7, 46.7, 75) : null,
+      phone: input("手机号", "请输入手机号", 24.5, (register ? 38.0 : 42.15) + offset, 60, 11),
+      code: input("短信验证码", "请输入短信验证码", 11.7, (register ? 55.2 : 50.8) + offset, 50, 6),
+      name: register ? input("学生姓名", "请输入学生姓名", 11.7, 46.7 + offset, 75) : null,
     };
     consent = element("input");
     consent.type = "checkbox";
     consent.setAttribute("aria-label", "已阅读并同意协议");
-    Object.assign(consent.style, { left: "7.9%", top: register ? "61.7%" : "57.5%" });
+    Object.assign(consent.style, { left: "7.9%", top: ((register ? 61.7 : 57.5) + offset) + "%" });
     layer.append(consent);
     form.code.onkeydown = event => {
       if (event.key === "Enter") window.currentReviewAction("auth");
@@ -237,6 +239,8 @@
   let playing = false;
   const handlers = {
     back: returnTo,
+    returnToDraft: () => go(/^06-(05|07|16|25)$/.test(entry) ? entry : "06-05"),
+    returnToUpload: () => go(/^06-(11|13|14|22)$/.test(entry) ? entry : "06-11"),
     returnProfile: () => go(/^09-(09|10|11|12)$/.test(entry) ? entry : "09-09"),
     backFromFeedback: () => go(activityReturn || "04-05"),
     backFromHomework: () => go(activityReturn || "04-06"),
@@ -361,11 +365,26 @@
     document.querySelector(".review-dialog")?.close();
     document.querySelector(".review-toast")?.remove();
     layer.replaceChildren();
+    dismissPreview = page.dismissDialog;
+    const hotspotLayer = document.getElementById("hotspots");
+    if (dismissPreview) {
+      hotspotLayer.setAttribute("role", "dialog");
+      hotspotLayer.setAttribute("aria-label", page.title || page.name);
+    } else {
+      hotspotLayer.removeAttribute("role");
+      hotspotLayer.removeAttribute("aria-label");
+    }
     form = consent = null;
     if (page.form) renderForm(page.form === "register");
     if (page.id === "08-01") atlasState = null;
     if (page.atlas && page.id !== "08-01") layer.append(atlas(page.id.slice(3)));
   };
+  window.addEventListener("keydown", event => {
+    if (event.key === "Escape" && dismissPreview && !document.querySelector("dialog[open]")) {
+      event.preventDefault();
+      window.currentReviewAction(dismissPreview.slice(1));
+    }
+  });
   window.addEventListener("message", event => {
     if (event.origin !== location.origin) return;
     const modal = document.querySelector(".review-dialog .atlas-frame");
